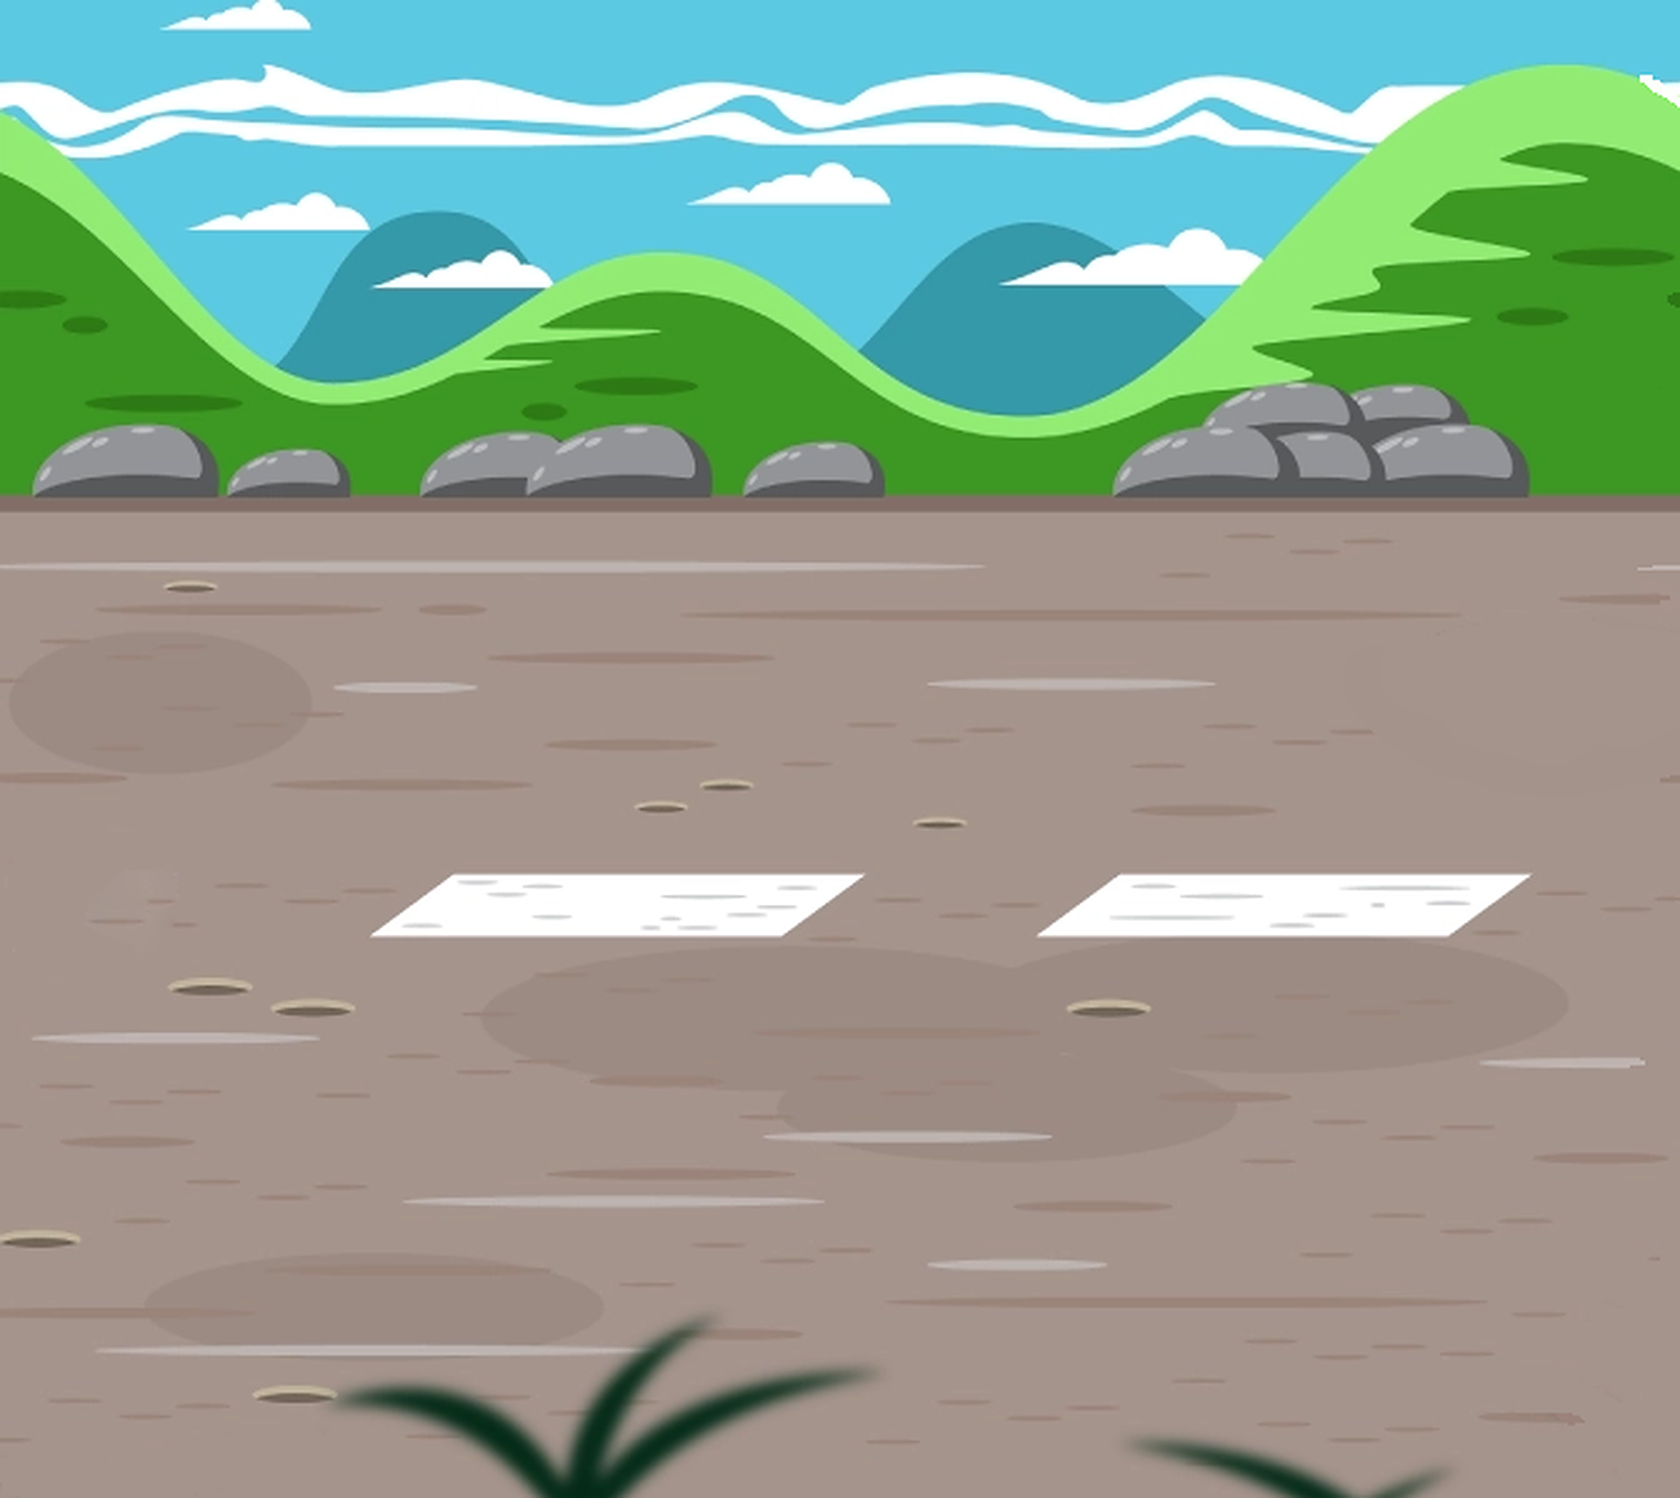
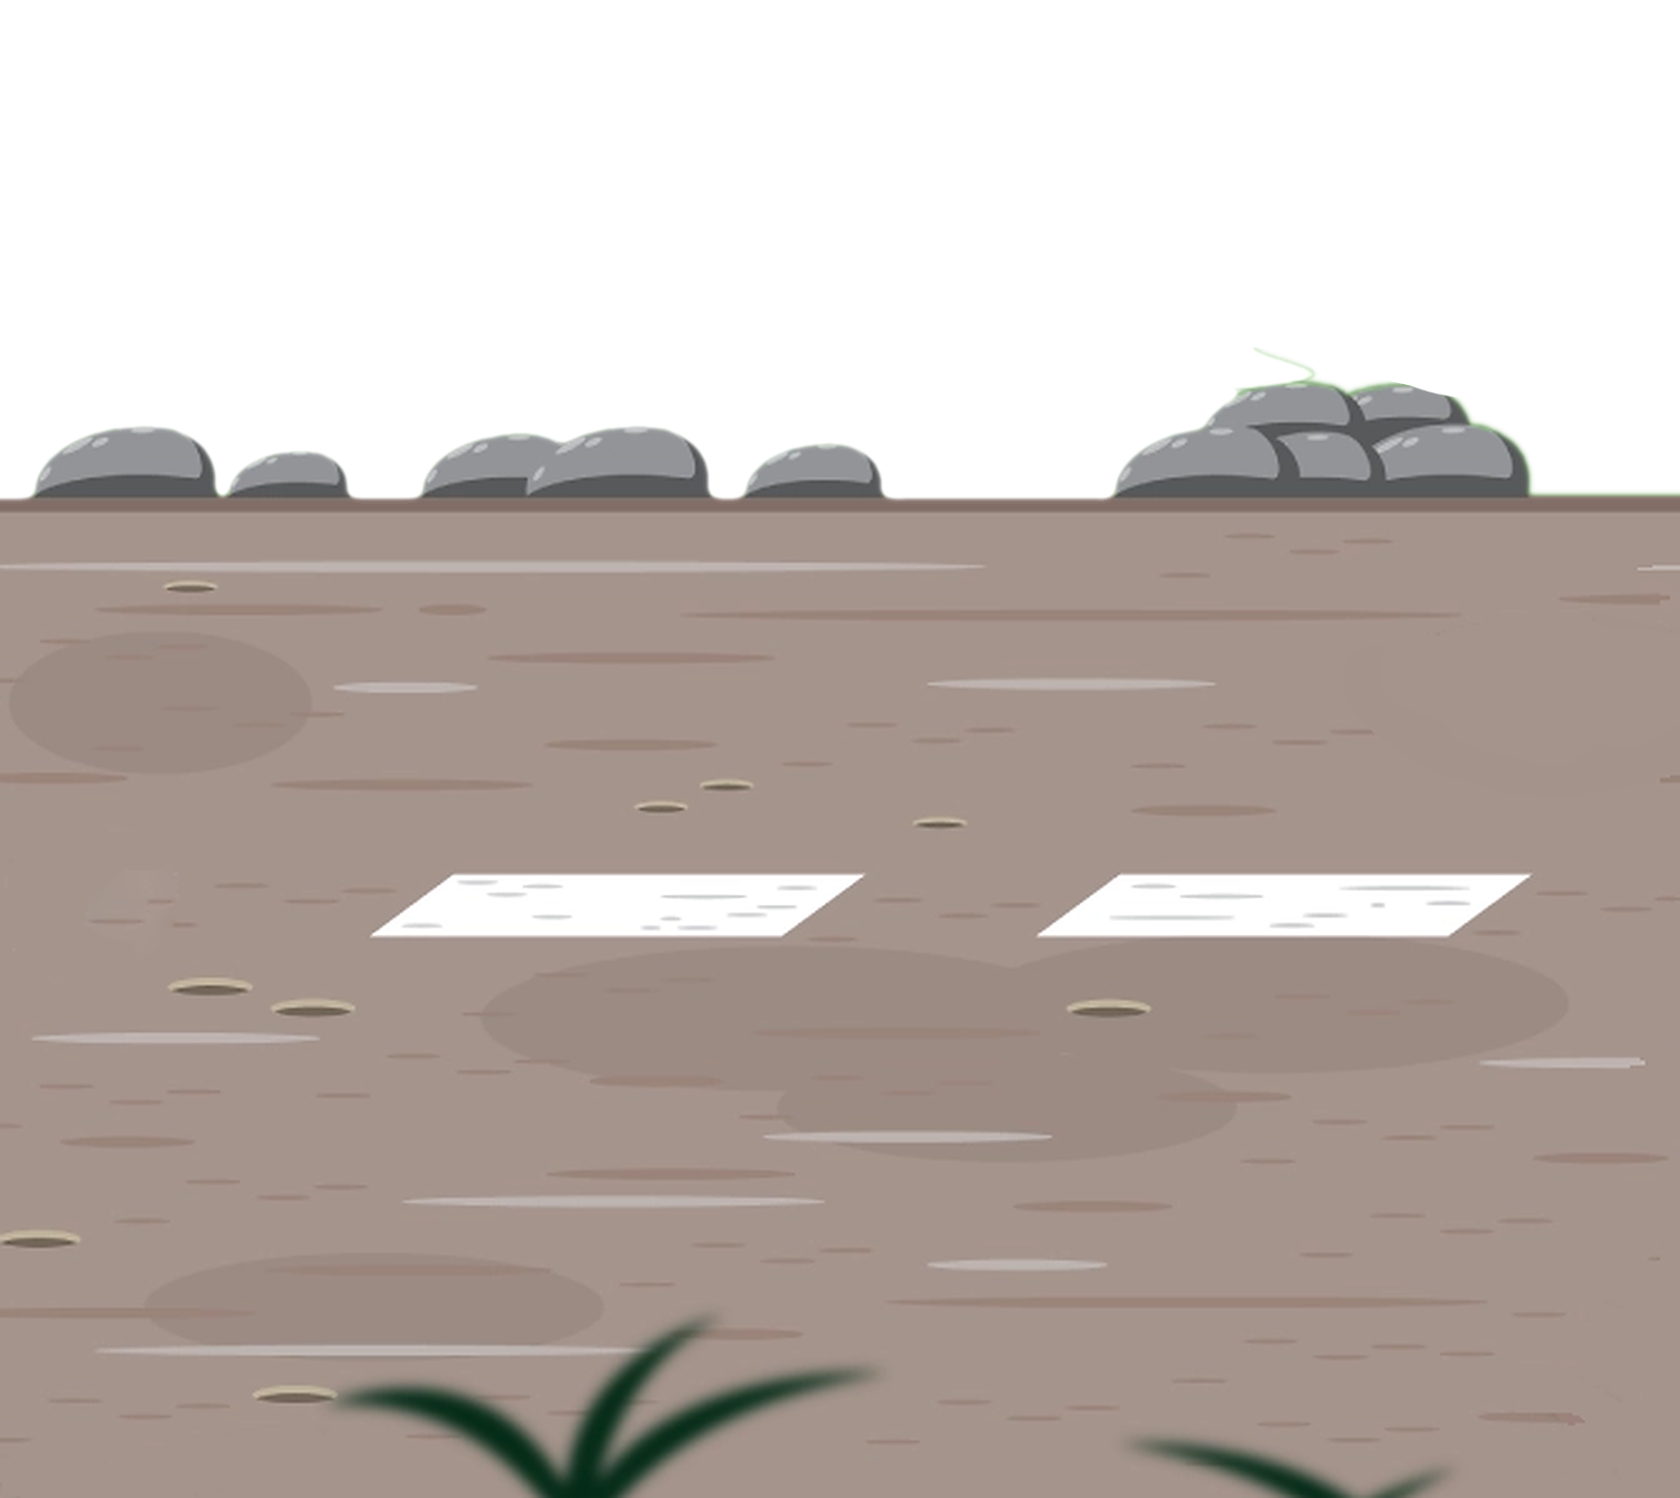
.

Changed region(s): [[0.0, 0.0, 1.0, 0.3378]]

diff --git a/src/App.js b/src/App.js
@@ -1,8 +1,8 @@
 import React from "react";
 
 import { Provider } from "./myHookComponents/useGlobalState";
-import MyNameComp from "./myHookComponents/myNameHookComponent";
-import MyCarComp from "./myHookComponents/myCarHookComponent";
+
+import MyGameField from "./myHookComponents/myPlayingFieldHookComponent";
 
 import "./App.css";
 // import Counter from "./Counter";
@@ -81,10 +81,14 @@ const initialState = {
 
 export default function App() {
   return (
-    <div className="App">
+    <div
+      className="App"
+      // style={{ animation: `RoadAnimation ${speed}s infinite linear` }}
+    >
       <Provider reducer={reducer} initialState={initialState}>
-        <MyNameComp></MyNameComp>
-        <MyCarComp></MyCarComp>
+        <MyGameField></MyGameField>
+        {/* <MyNameComp></MyNameComp> */}
+        {/* <MyCarComp></MyCarComp> */}
       </Provider>
     </div>
   );

diff --git a/src/myHookComponents/myCarHookComponent/index.js b/src/myHookComponents/myCarHookComponent/index.js
@@ -126,13 +126,19 @@ export default function Counter() {
         <img src={carSvg} className="carBody" alt="lol"></img>
         <img
           src={wheelSvg}
-          style={{ animation: `WheelGas ${wheelSpeed}s linear infinite` }}
+          style={{
+            animation: `WheelGas ${wheelSpeed}s linear infinite`,
+            animationFillMode: "forwards"
+          }}
           className="wheel1"
           alt="lol"
         ></img>
         <img
           src={wheelSvg}
-          style={{ animation: `WheelGas ${wheelSpeed}s linear infinite` }}
+          style={{
+            animation: `WheelGas ${wheelSpeed}s linear infinite`,
+            animationFillMode: "forwards"
+          }}
           className="wheel2"
           alt="lol"
         ></img>

diff --git a/src/myHookComponents/myPlayingFieldHookComponent/index.js b/src/myHookComponents/myPlayingFieldHookComponent/index.js
@@ -1,0 +1,32 @@
+import React, { useEffect } from "react";
+import { useGlobalState } from "../useGlobalState";
+import "./index.css";
+
+import MyCarComp from "../myCarHookComponent";
+
+window.speed = 1;
+
+export default function Counter() {
+  const [state, dispatch] = useGlobalState();
+  let speed = state.speed * 10;
+
+  window.speed = window.speed - 0.03 * 4;
+
+  console.log(window.speed);
+  return (
+    <div id="skyBackground">
+      {/* //speed */}
+      <div
+        className="App"
+        style={{
+          animation: `RoadAnimation ${speed}s infinite linear`,
+          animationFillMode: "forwards"
+        }}
+      >
+        <div id="mountainbbackground">
+          <MyCarComp></MyCarComp>
+        </div>
+      </div>
+    </div>
+  );
+}

diff --git a/src/App.css b/src/App.css
@@ -10,7 +10,16 @@
   /* background-size: 100% 10%; */
   /* background-size: auto; */
   background-size: calc(750px / 0.75);
+
+  animation-fill-mode: forwards;
+
   height: 865px;
+  z-index: 0;
+}
+
+#skyBackground {
+  background-image: url("./images/skybackground.jpg");
+  z-index: 1;
 }
 
 .App-logo {
@@ -32,6 +41,15 @@
 
 .App-link {
   color: #61dafb;
+}
+
+@keyframes RoadAnimation {
+  0% {
+    background-position: -1px 0px;
+  }
+  100% {
+    background-position: -995px 0px;
+  }
 }
 
 @keyframes App-logo-spin {

diff --git a/src/myHookComponents/myCarHookComponent/index.css b/src/myHookComponents/myCarHookComponent/index.css
@@ -133,7 +133,7 @@
 
 @keyframes WheelGas {
   from {
-    transform: rotate(0deg);
+    transform: rotate(1deg);
   }
   to {
     transform: rotate(360deg);
